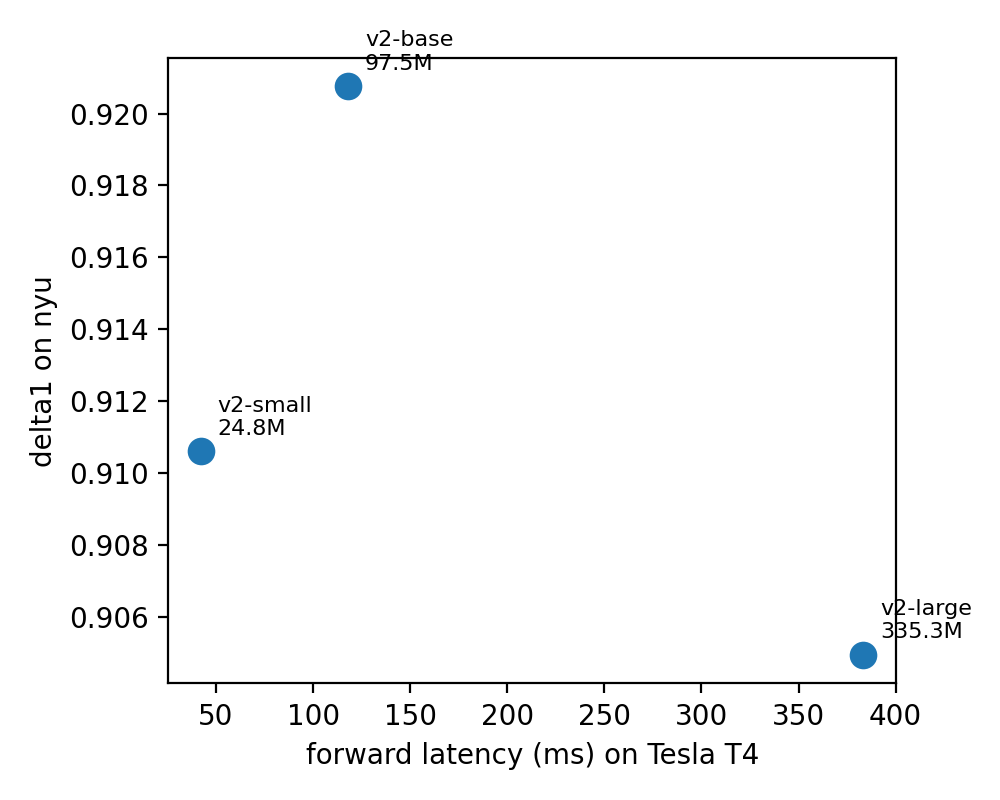
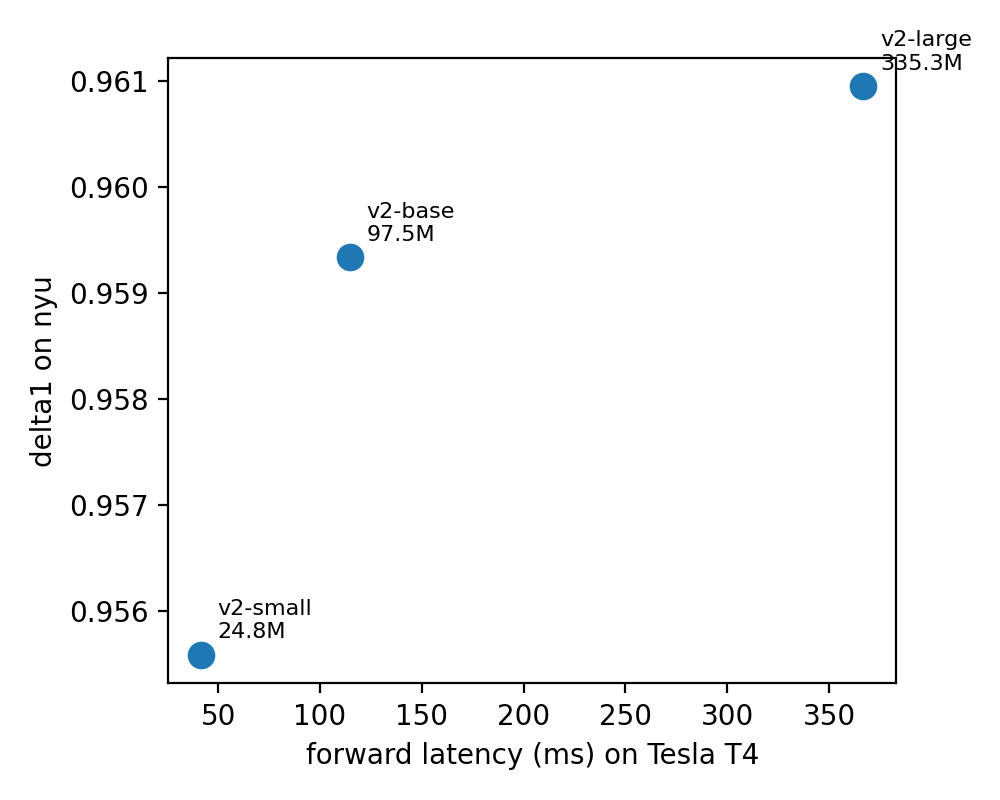
Save NYU diagnostics and refreshed report artifacts

diff --git a/scripts/diagnose_nyu_disparity.py b/scripts/diagnose_nyu_disparity.py
@@ -1,0 +1,65 @@
+"""Measure near-zero and negative raw predictions on five NYU images."""
+from pathlib import Path
+import os
+import sys
+
+repo_root = Path(__file__).resolve().parents[1]
+os.environ.setdefault("HF_HOME", str(repo_root / "data" / "hf-cache"))
+os.environ.setdefault("HF_HUB_DOWNLOAD_TIMEOUT", "120")
+
+import numpy as np
+from PIL import Image
+
+sys.path.insert(0, str(repo_root / "src"))
+from dav2.metrics import align_scale_shift, valid_mask
+from dav2.models import load_model
+
+
+root = Path("data/nyu")
+image_dir = next((p for p in sorted(root.rglob("val")) if p.is_dir() and p.parent.name == "images"), None)
+if image_dir is None:
+    raise FileNotFoundError(f"no images/val folder under {root}")
+images = sorted(p for p in image_dir.iterdir() if p.suffix.lower() in {".jpg", ".jpeg", ".png"})
+if len(images) < 5:
+    raise ValueError(f"expected at least five NYU images in {image_dir}, found {len(images)}")
+selected = [images[i] for i in np.linspace(0, len(images) - 1, 5).round().astype(int)]
+depth_dir = image_dir.parent.parent / "depth" / "val"
+ground_truth = {p.stem: np.load(depth_dir / f"{p.stem}.npy") for p in selected}
+
+print(f"Images: {', '.join(p.name for p in selected)}", flush=True)
+stats = {}
+alignment_rows = []
+for key in ("v2-small", "v2-large"):
+    model = load_model(key)
+    stats[key] = []
+    for path in selected:
+        with Image.open(path) as image:
+            disparity = model.predict(image)
+        negative = float(np.mean(disparity < 0))
+        near_zero = float(np.mean(disparity < 0.01))
+        minimum = float(np.min(disparity))
+        stats[key].append((negative, near_zero, minimum))
+        print(f"{key:8s} {path.name:32s} negative={negative:.6%}  <0.01={near_zero:.6%}  min={minimum:.6g}", flush=True)
+        gt_depth = ground_truth[path.stem]
+        mask = valid_mask(gt_depth, 1e-3, 10.0)
+        pred_disp = disparity[mask].astype(np.float64)
+        gt_disp = 1.0 / gt_depth[mask].astype(np.float64)
+        scale, shift = align_scale_shift(pred_disp, gt_disp)
+        aligned = scale * pred_disp + shift
+        ss_res = float(np.sum((aligned - gt_disp) ** 2))
+        ss_tot = float(np.sum((gt_disp - gt_disp.mean()) ** 2))
+        r2 = 1.0 - ss_res / ss_tot
+        pred_variance = float(np.var(disparity.astype(np.float64)))
+        alignment_rows.append((path.stem, key, ss_res, r2, pred_variance))
+    del model
+
+for key, values in stats.items():
+    print(f"{key:8s} mean across images: negative={np.mean([v[0] for v in values]):.6%}  "
+          f"<0.01={np.mean([v[1] for v in values]):.6%}")
+for path, small, large in zip(selected, stats["v2-small"], stats["v2-large"]):
+    print(f"Large minus Small {path.name}: negative={large[0] - small[0]:+.6%}  "
+          f"<0.01={large[1] - small[1]:+.6%}")
+
+print("image | model | alignment_R2 | pred_variance")
+for image, key, ss_res, r2, pred_variance in alignment_rows:
+    print(f"{image} | {key} | {r2:.6f} | {pred_variance:.6f}")
